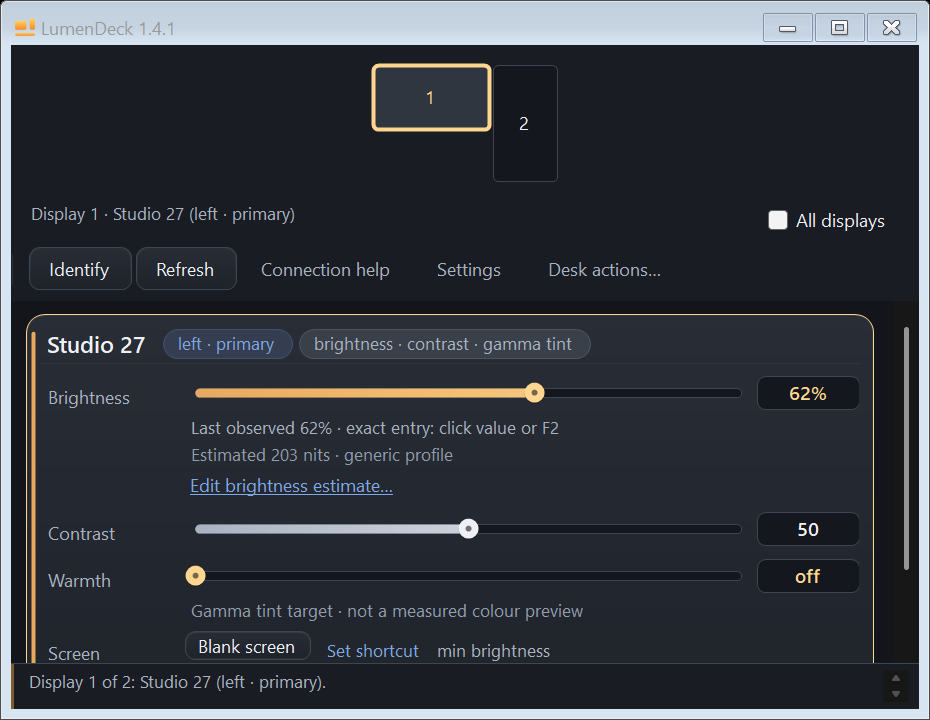
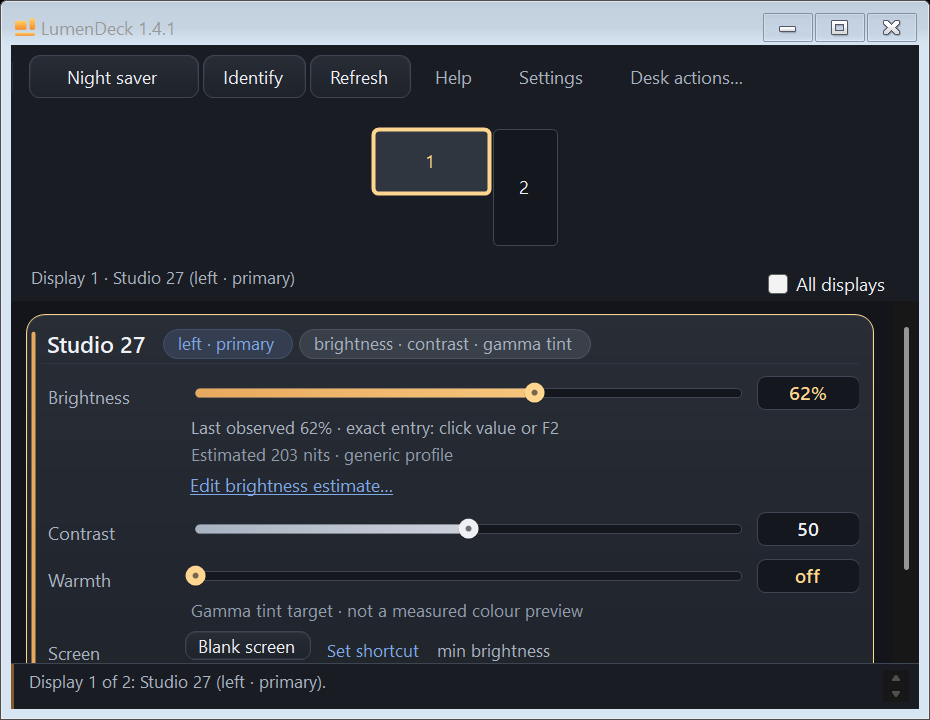
Record Night saver verification and refresh 1.4.1 previews

diff --git a/docs/checkpoint.md b/docs/checkpoint.md
@@ -1,79 +1,79 @@
 # Current checkpoint
 
-Updated 2026-10-15. **LumenDeck 1.4.1** records the compact desktop interface
-accepted after the previous installation. Work started from `58e7437` on
-`chore/1.4.1-milestone-20261015`.
+Updated 2026-10-16. **LumenDeck 1.4.1** keeps Night saver directly accessible and
+requests a much lower brightness on the retained work display. Work started from
+`cfd7a93` on `fix/night-saver-entry-and-dimming`.
 
-## Milestone
+## Behavior
 
-- The shared version is 1.4.1 across GUI, Core, CLI, window title, About and package.
-- The accepted interface is retained: compact adjustment values, proportional
-  Windows desktop geometry, spatial selection and corrected native scrolling.
-- The changelog now separates the 1.4.1 checkpoint from accumulated development
-  history. README, portable instructions and architecture/design notes describe
-  the current interface, including number-only compact tiles and real DPI evidence.
-- All seven public previews were regenerated from committed 1.4.1 source. The
-  receipt binds native captures and uniform derivatives to assembly and pixel hashes.
+- Night saver is always first in the toolbar. Its active action is **End Night saver**;
+  reserved width avoids state-change reflow. Desk actions holds the work-display
+  selector and secondary commands without auto-expanding during a night session.
+- The retained display requests at most 5% of its hardware brightness range,
+  rounded down. An already darker display stays unchanged. Reading presets no longer
+  determine this target. No software work-screen dimming or gamma change is added.
+- Automatic presets and scheduled Custom preserve the retained display, including
+  a display already dark on entry. Explicit manual brightness choices still take over.
+- Original raw brightness is saved before dimming; restore debt, interrupted recovery
+  and separately owned blackouts retain their existing protections.
+- The accepted compact readouts, proportional monitor map and native scrolling remain.
 
 Immutable product/package/capture source:
-`31af6555d42bcfb152dd859a8af24a9c2a9a25c4`.
-There are no new hardware-control behavior or settings-schema changes in this
-versioning milestone. The accepted compact repairs originated in `3da37c6`.
-See [UI design](ui-design.md), [capture method](showcase.md) and
-[image receipt](assets/screenshot.json).
+`818fa7b8ad9ee911bbf0b63dbe42c4c807c98405`.
+The GUI, Core and CLI remain version 1.4.1; the settings schema is unchanged.
+See [Night saver design](night-saver.md), [UI design](ui-design.md) and the
+[source-bound preview receipt](assets/screenshot.json).
 
 ## Verification
 
-| Check actually run on 1.4.1 | Result |
+| Check actually run | Result |
 | --- | --- |
 | Release solution build, warnings as errors | Passed, zero warnings/errors |
-| Full ControlTests | 4,586 passed |
-| Full AppTests | 2,321 passed, including the post-adjustment screenshot regression |
+| Full ControlTests | 4,610 passed |
+| Full AppTests | 2,377 passed |
 | Committed-source native showcase | 33 passed |
 | Capture exporter regressions | 6 tests passed |
 | Native DPI round trips in full AppTests | 125%/150% passed existing layout-work and no-drift limits |
 | Release source-path/privacy canaries | Passed |
-| Extracted package and package regressions | Passed, including installer state and compressed bundle checks |
-| Source/build/archive identity record | Checked against both executable payloads and archive checksum |
+| Extracted package and package regressions | Passed, including 24 installer and 20 bundle checks |
 
-ControlTests and AppTests ran sequentially. Native documentation, minimum and
-stacked windows and portfolio derivatives were visually reviewed. Captures use
-fictitious identities on a private desktop. The real desktop screenshot, settings,
-backups and display identities are not published. These tests use fake hardware
-and isolated state. Logs are retained in ignored `artifacts/milestone-1.4.1-20261015`.
+ControlTests and AppTests ran sequentially. Focused checks exercised low brightness,
+retained snapshots, automatic schedule protection, visible start/end actions and
+stable toolbar dimensions. Native compact and regular previews were visually reviewed.
+All seven public previews use fictitious displays and committed source. Real settings,
+display identities, backups and installation receipts remain local and ignored.
+Logs are retained under ignored `artifacts/night-saver-*.log`.
 
 ## Package and desktop update
 
 Verified archive:
-`dist/build-8fb5396417774b7cbf1c33625eb20aab/verified/LumenDeck-1.4.1-win-x64.zip`.
[1 lines of base64/hex data omitted]
-Both executables report `1.4.1+31af6555d42bcfb152dd859a8af24a9c2a9a25c4`,
-file version `1.4.1.0`. [Release readiness](release-readiness.md) is the single
-candidate identity record consumed by `Check-ReleaseRecord.ps1`.
+`dist/build-f5933532edcf41d3bd39598081011ac6/verified/LumenDeck-1.4.1-win-x64.zip`.
[1 lines of base64/hex data omitted]
+Both executables report `1.4.1+818fa7b8ad9ee911bbf0b63dbe42c4c807c98405`.
+[Release readiness](release-readiness.md) is the candidate identity record consumed
+by `Check-ReleaseRecord.ps1`.
 
-The accepted prior desktop build was `1.4.0+3da37c6`. Its binaries, settings and
-shortcuts were backed up before preparing the new payload. Normal tray Exit is
-required before replacement so restoration and pending saves finish. The installer
-refuses a running app. Final installation checks compare payload hashes, shortcut
-targets and saved-state hashes before startup, then verify the running path/version,
-responsive window and error-log growth. The final handoff and local receipt record
-the actual installation outcome; backups and receipts remain ignored.
+The previous installed 1.4.1 build (`31af655`) and shortcuts are backed up.
+The replacement payload is verified. Normal tray Exit is required so restoration
+and pending saves finish. The installer refuses a running app. Installation checks
+compare payload hashes, shortcut targets and saved-state hashes before startup,
+then verify the running path/version, responsive window and error-log growth.
+The final handoff and ignored installation receipt record the actual outcome.
 
 ## GitHub and remaining acceptance
 
-The completed checkpoint is fast-forwarded to `main` and pushed after local
-verification. The unchanged workflow runs on every branch and performs Windows
-build, test and package checks. The final handoff reports the exact hosted result
-from [GitHub Actions](https://github.com/snowyukitty/LumenDeck/actions/workflows/build.yml).
-The source push does not create a release/tag or publish a downloadable release.
+The finished checkpoint is fast-forwarded to main and pushed after local verification.
+The unchanged workflow runs on every branch; only the finished main checkpoint is
+pushed. The final handoff reports the exact result from
+[GitHub Actions](https://github.com/snowyukitty/LumenDeck/actions/workflows/build.yml).
+No release, tag or downloadable release asset is published by this source push.
 
-The owner accepted the preceding installed UI improvement. That is useful visual
-feedback, not blanket hardware acceptance. Physical DDC/WMI/gamma restoration,
-hot-plug/interrupted recovery, foreground mixed-DPI dragging, DWM material,
-Narrator, real contrast-theme switching and clean-profile install/uninstall remain
-separate acceptance work.
+Physical-panel darkness at the 5% hardware setting remains owner acceptance: hardware
+floors vary and percentages do not measure emitted light. Physical restoration,
+hot-plug/interrupted recovery, foreground mixed-DPI dragging, DWM material, Narrator,
+real contrast themes and clean-profile install/uninstall remain separate acceptance.
 
-Scope: this repository's shared version, documentation, generated synthetic previews
-and verified local package/desktop update. No sibling sources or reference artwork
-were copied. The project lease is released at handoff; resume by checking Git state,
-this checkpoint and the ignored installation receipt.
+Scope: this repository's Night saver UI/behavior, regression checks, documentation,
+synthetic previews and local package/update. No sibling files or artwork were copied.
+The project lease is released at handoff; resume by checking Git state, this checkpoint
+and the ignored installation receipt.

diff --git a/docs/release-readiness.md b/docs/release-readiness.md
@@ -2,18 +2,19 @@
 
 ## Current 1.4.1 candidate
 
-Updated 2026-10-15. This versioned checkpoint retains the compact desktop interface
-accepted after the preceding local installation. It is not a published release.
+Updated 2026-10-16. This checkpoint restores the always-visible Night saver action
+and separates its low work-display brightness from reading presets. It retains the
+accepted compact interface. It is not a published release.
 
 | Item | Recorded value |
 | --- | --- |
-| Source commit | `31af6555d42bcfb152dd859a8af24a9c2a9a25c4` - 1.4.1 compact desktop milestone |
-| GUI recorded build | `1.4.1+31af6555d42bcfb152dd859a8af24a9c2a9a25c4` |
+| Source commit | `818fa7b8ad9ee911bbf0b63dbe42c4c807c98405` - 1.4.1 Night saver repair |
+| GUI recorded build | `1.4.1+818fa7b8ad9ee911bbf0b63dbe42c4c807c98405` |
 | Package | `LumenDeck-1.4.1-win-x64.zip` |
[2 lines of base64/hex data omitted]
 | Distribution | Self-contained Windows x64 GUI and CLI |
 | File version | `1.4.1.0` for both executables |
-| Verification | Release warnings-as-errors build; 4,586 ControlTests; 2,321 AppTests; 33 committed-source showcase checks; 6 capture-export regressions; extracted package and installer/bundle regressions |
+| Verification | Release warnings-as-errors build; 4,610 ControlTests; 2,377 AppTests; 33 committed-source showcase checks; 6 capture-export regressions; extracted package and installer/bundle regressions |
 
 Both executable product versions match the recorded GUI build. The extracted
 package passes its exact file allowlist, hashes, versions, bundled source-path
@@ -33,10 +34,14 @@ physical monitor control.
 
 ## Historical candidates
 
+The `31af655` compact milestone was installed as 1.4.1 with matching binary hashes,
+preserved settings and a verified responsive startup. This Night saver follow-up
+supersedes its portable candidate without changing the shared version or settings schema.
+
 The `3da37c6` compact desktop build was installed as 1.4.0, with matching binary
 hashes, preserved settings and verified desktop shortcuts/startup. The owner then
 accepted the UI improvement and requested the 1.4.1 milestone. This candidate
-supersedes that package while retaining its product behavior.
+superseded that package while retaining its product behavior.
 
 Earlier 1.4.0 builds used `6a0bd4e`, `4e27b37` and `114eed4`; their evidence remains
 in Git history and the [repair review](repair-review.md). Historical checks establish

diff --git a/CHANGELOG.md b/CHANGELOG.md
@@ -14,6 +14,7 @@ Versioned desktop checkpoint following owner review of the compact interface.
 The GUI, CLI, window title, About information and package use one shared version.
 This entry records the source milestone; publication status and remaining hardware
 acceptance are tracked in [release readiness](docs/release-readiness.md).
+The 2026-10-16 follow-up repairs Night saver within the same development version.
 
 ### Changed
 
